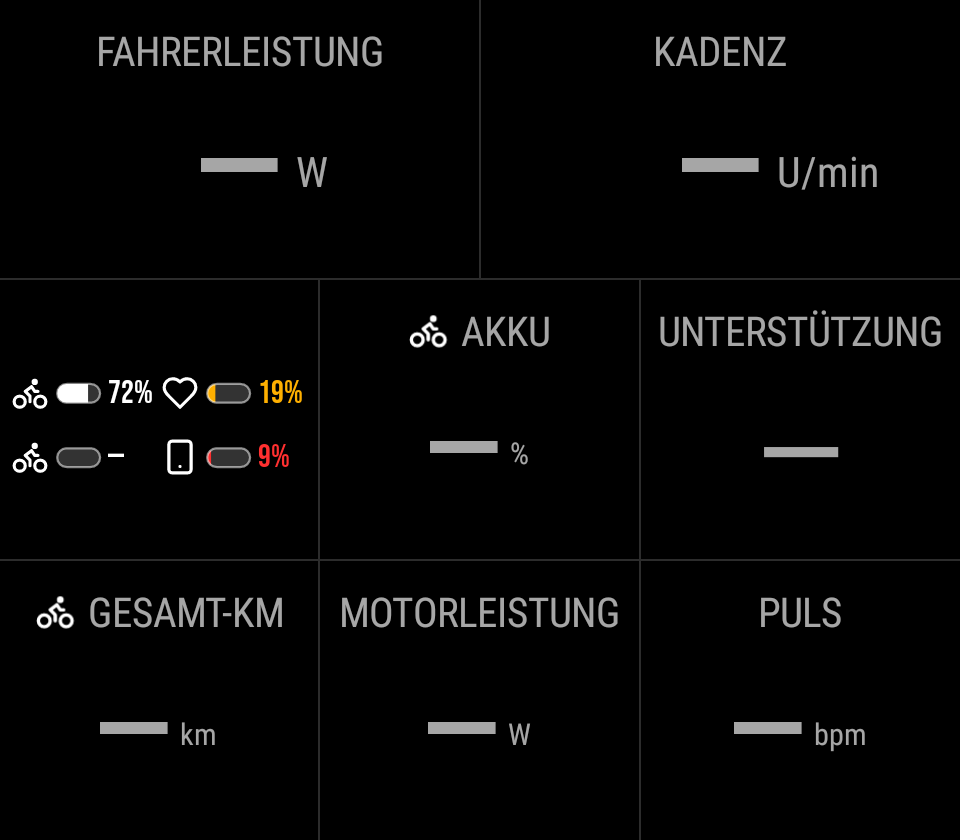
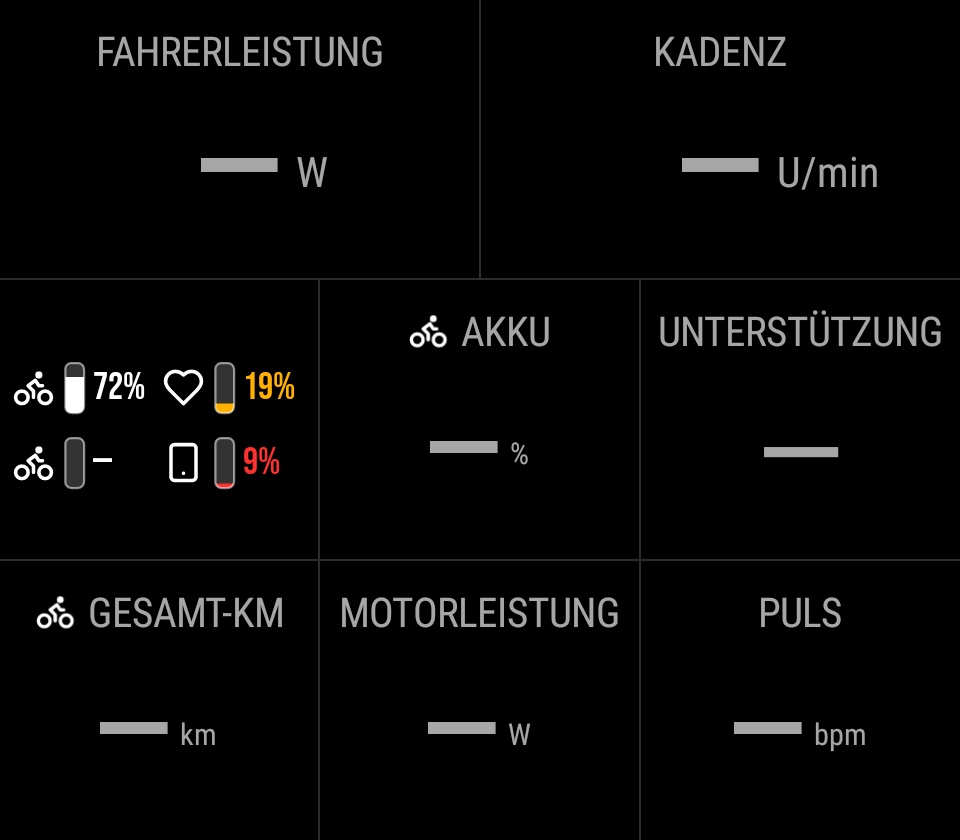
Refine battery selection and vertical display; pin notification sections

Changed region(s): [[0.0, 0.4333, 0.3125, 0.5881]]

diff --git a/app/src/main/java/de/bcycle/app/FieldPickerView.kt b/app/src/main/java/de/bcycle/app/FieldPickerView.kt
@@ -18,7 +18,7 @@ internal class FieldPickerView(context: Context, data: LiveData, gps: GpsValues,
     visualization: ZoneGlowPicker? = null,
     training: TrainingSnapshot = TrainingSnapshot(),
     dataVisible: Boolean = true,
-    batteryChoose: ((DashboardField)->Unit)? = null,
+    batteryChoose: ((DashboardField?)->Unit)? = null,
     choose: (DashboardField?) -> Unit) : LinearLayout(context) {
     private fun dp(n: Int) = BicycleDesign.dp(context, n)
     private lateinit var fieldList: ScrollView
@@ -72,10 +72,12 @@ internal class FieldPickerView(context: Context, data: LiveData, gps: GpsValues,
         if(visualization!=null) panels.addView(visualization)
         var shown = -1
         var batterySelection=selected?.batterySources ?: listOf(BatterySource.PHONE)
-        var combined=selected?.batterySources!=null
+        var combined=dataVisible && selected?.batterySources!=null
+        val percentChoices=mutableListOf<RadioButton>()
+        fun updatePercentChoices() { percentChoices.forEach { it.isEnabled=!combined;it.alpha=if(combined) .4f else 1f } }
         fun populate(position: Int) {
             if (shown == position) return
-            shown = position; rows.removeAllViews(); list.scrollTo(0, 0)
+            shown = position; rows.removeAllViews(); percentChoices.clear(); list.scrollTo(0, 0)
             for (section in groups.getValue(sources[position])) {
                 rows.addView(TextView(context).apply {
                     text = if(section.source=="Leistung") context.getString(R.string.training_category) else DashboardTextResources.section(context,section.title); isAccessibilityHeading=true; textSize = BicycleDesign.bodySp; BicycleDialogStyle.control(this, themes)
@@ -84,49 +86,70 @@ internal class FieldPickerView(context: Context, data: LiveData, gps: GpsValues,
                 for (field in section.fields) {
                     val value = field.value(data, gps, bikeDistanceM, pulse, training)
                     val title = if (field.id == "RIDER_POWER") context.getString(R.string.ui_rider_power_own) else field.title(context,data, gps)
-                    val radio=RadioButton(context).apply {
-                        tag = field.id; text = if (value.unit.isNotEmpty()) context.getString(R.string.ui_field_with_unit, title, value.unit) else title
-                        BicycleDialogStyle.control(this, themes); minHeight = dp(BicycleDesign.touchSize)
-                        isChecked = pickerDataVisible && (if(combined) field.id==BatteryFields.COMBINED else selected==field)
-                        contentDescription = if (field.showSource) context.getString(R.string.ui_source_field_description, DashboardTextResources.source(context,field.source(data)), text) else text
-                        setOnClickListener {
-                            if(field.id==BatteryFields.COMBINED) {
-                                combined=true;pickerDataVisible=true;emptyChoice.isChecked=false
-                                for(i in 0 until rows.childCount) (rows.getChildAt(i) as? RadioButton)?.isChecked=false
-                                isChecked=true
-                                (batteryChoose ?: choose).invoke(BatteryFields.field(batterySelection))
-                            } else choose(field)
-                        }
-                    }
-                    rows.addView(radio)
                     if(field.id==BatteryFields.COMBINED) {
+                        var updating=false
+                        val checks=mutableMapOf<BatterySource,android.widget.CheckBox>()
+                        val toggle=android.widget.Switch(context).apply {
+                            tag=field.id;text=title;isChecked=combined
+                            BicycleDialogStyle.control(this,themes)
+                        }
+                        fun updateChecks() {
+                            updating=true
+                            toggle.isChecked=combined
+                            checks.forEach { (source,check) ->
+                                check.isChecked=source in batterySelection
+                                check.isEnabled=source in batterySelection || batterySelection.size<4
+                            }
+                            updating=false
+                            updatePercentChoices()
+                        }
+                        fun saveCombination() {
+                            pickerDataVisible=combined;emptyChoice.isChecked=!combined
+                            for(i in 0 until rows.childCount) (rows.getChildAt(i) as? RadioButton)?.isChecked=false
+                            updateChecks()
+                            (batteryChoose ?: choose).invoke(if(combined) BatteryFields.field(batterySelection) else null)
+                        }
+                        toggle.setOnCheckedChangeListener { _,checked ->
+                            if(!updating) {
+                                combined=checked
+                                if(checked && batterySelection.isEmpty()) batterySelection=listOf(BatterySource.PHONE)
+                                saveCombination()
+                            }
+                        }
+                        rows.addView(toggle)
                         rows.addView(BicycleComponents.text(context,themes,context.getString(R.string.battery_selection)))
                         rows.addView(BicycleComponents.text(context,themes,context.getString(R.string.battery_selection_help)))
-                        val checks=mutableMapOf<BatterySource,android.widget.CheckBox>()
-                        fun updateChecks() { checks.forEach { (source,check) ->
-                            check.isEnabled=if(source in batterySelection) batterySelection.size>1 else batterySelection.size<4
-                        } }
-                        (BatteryFields.choices(data.indoor)+batterySelection).distinct().forEach { source ->
+                        (BatteryFields.choices()+batterySelection).distinct().forEach { source ->
                             val check=android.widget.CheckBox(context).apply {
                                 tag="battery_select_${source.name}";text=context.getString(source.label);isChecked=source in batterySelection
                                 BicycleDialogStyle.control(this,themes);BicycleDialogStyle.actionIcon(this,themes,BatteryFields.icon(source))
                                 setOnCheckedChangeListener { _,checked ->
-                                    val next=if(checked) (batterySelection+source).distinct() else batterySelection-source
-                                    if(next.size !in 1..4) { isChecked=!checked;return@setOnCheckedChangeListener }
-                                    batterySelection=next
-                                    combined=true;pickerDataVisible=true;emptyChoice.isChecked=false
-                                    for(i in 0 until rows.childCount) (rows.getChildAt(i) as? RadioButton)?.isChecked=false
-                                    radio.isChecked=true;updateChecks()
-                                    (batteryChoose ?: choose).invoke(BatteryFields.field(batterySelection))
+                                    if(!updating) {
+                                        batterySelection=if(checked) (batterySelection+source).distinct() else batterySelection-source
+                                        combined=batterySelection.isNotEmpty()
+                                        saveCombination()
+                                    }
                                 }
                             }
                             checks[source]=check;rows.addView(check)
                         }
                         updateChecks()
+                    } else {
+                        val radio=RadioButton(context).apply {
+                            tag=field.id
+                            text=if(value.unit.isNotEmpty()) context.getString(R.string.ui_field_with_unit,title,value.unit) else title
+                            BicycleDialogStyle.control(this,themes);minHeight=dp(BicycleDesign.touchSize)
+                            isChecked=pickerDataVisible && !combined && selected==field
+                            contentDescription=if(field.showSource) context.getString(R.string.ui_source_field_description,DashboardTextResources.source(context,field.source(data)),text) else text
+                            setOnClickListener { choose(field) }
+                        }
+                        // Keep all percent entries aligned with the other native selection circles.
+                        rows.addView(radio,LayoutParams(-1,-2))
+                        if(BatteryFields.single(field.id)!=null) percentChoices.add(radio)
                     }
                 }
             }
-
+            updatePercentChoices()
         }
         selector.onItemSelectedListener = object : AdapterView.OnItemSelectedListener {
             override fun onItemSelected(parent: AdapterView<*>?, view: View?, position: Int, id: Long) = populate(position)

diff --git a/app/src/test/java/de/bcycle/app/BatteryFieldsTest.kt b/app/src/test/java/de/bcycle/app/BatteryFieldsTest.kt
@@ -52,9 +52,9 @@ class BatteryFieldsTest {
         send(90,0);assertNull(battery.level)
         battery.stop();send(90);assertNull(battery.level)
     }
-    @Test fun pickerSavesMultipleSourcesWithoutClosingAndEnforcesFourAndAtLeastOne() {
+    @Test fun pickerKeepsPhoneSelectableAndDisablesPercentFieldsOnlyWhileCombinationIsActive() {
         val initial=listOf(BatterySource.EBIKE,BatterySource.HEART,BatterySource.TRAINER,BatterySource.POWER)
-        var chosen=BatteryFields.field(initial)
+        var chosen:DashboardField?=BatteryFields.field(initial)
         var closed=false
         val picker=FieldPickerView(app,LiveData(),GpsValues(),null,PulseValues(),chosen,false,
             batteryChoose={ chosen=it },choose={ closed=true })
@@ -64,11 +64,44 @@ class BatteryFieldsTest {
         assertFalse(phone.isEnabled)
         picker.findViewWithTag<CheckBox>("battery_select_POWER").performClick()
         assertTrue(phone.isEnabled);phone.performClick()
-        assertEquals(4,chosen.batterySources!!.size);assertTrue(BatterySource.PHONE in chosen.batterySources!!)
+        assertEquals(4,chosen!!.batterySources!!.size);assertTrue(BatterySource.PHONE in chosen!!.batterySources!!)
         assertFalse(closed)
         for(source in listOf(BatterySource.EBIKE,BatterySource.HEART,BatterySource.TRAINER)) picker.findViewWithTag<CheckBox>("battery_select_${source.name}").performClick()
-        assertEquals(listOf(BatterySource.PHONE),chosen.batterySources)
-        assertFalse(phone.isEnabled)
+        assertEquals(listOf(BatterySource.PHONE),chosen!!.batterySources)
+        assertTrue(phone.isEnabled)
+        assertFalse(picker.findViewWithTag<android.widget.RadioButton>("PHONE_BATTERY").isEnabled)
+        phone.performClick()
+        assertNull(chosen)
+        assertTrue(phone.isEnabled)
+        assertTrue(picker.findViewWithTag<android.widget.RadioButton>("PHONE_BATTERY").isEnabled)
+        phone.performClick()
+        assertEquals(listOf(BatterySource.PHONE),chosen!!.batterySources)
+        picker.findViewWithTag<android.widget.Switch>(BatteryFields.COMBINED).performClick()
+        assertNull(chosen)
+        spinner.setSelection((0 until spinner.adapter.count).first { spinner.adapter.getItem(it)=="Smartphone" })
+        shadowOf(Looper.getMainLooper()).idle()
+        assertTrue(picker.findViewWithTag<android.widget.RadioButton>("PHONE_BATTERY").isEnabled)
+        assertFalse(closed)
+    }
+    @Test fun percentChoicesStayDisabledAcrossCategoriesUntilCombinationIsSwitchedOff() {
+        val field=BatteryFields.field(listOf(BatterySource.PHONE))
+        val picker=FieldPickerView(app,LiveData(),GpsValues(),null,PulseValues(),field,false,batteryChoose={},choose={})
+        val spinner=picker.findViewWithTag<Spinner>("field_source")
+        fun source(name:String) {
+            spinner.setSelection((0 until spinner.adapter.count).first { spinner.adapter.getItem(it)==name })
+            shadowOf(Looper.getMainLooper()).idle()
+        }
+        for((category,id) in listOf("Akku" to "PHONE_BATTERY","Smartphone" to "PHONE_BATTERY","Pulsmesser" to "HEART_BATTERY","E-Bike" to "BATTERY")) {
+            source(category)
+            assertFalse(picker.findViewWithTag<android.widget.RadioButton>(id).isEnabled)
+        }
+        source("Akku")
+        picker.findViewWithTag<android.widget.Switch>(BatteryFields.COMBINED).performClick()
+        assertTrue(picker.findViewWithTag<android.widget.RadioButton>("PHONE_BATTERY").isEnabled)
+        source("Smartphone")
+        assertTrue(picker.findViewWithTag<android.widget.RadioButton>("PHONE_BATTERY").isEnabled)
+        val reopened=FieldPickerView(app,LiveData(),GpsValues(),null,PulseValues(),field,false,dataVisible=false,choose={})
+        assertTrue(reopened.findViewWithTag<android.widget.RadioButton>("PHONE_BATTERY").isEnabled)
     }
     @Test fun threeColumnDashboardAndMapRenderFourCompactRowsIncludingMissingValuesAndStatusMarks() {
         val snapshot=BatterySnapshot(mapOf(BatterySource.EBIKE to 72,BatterySource.HEART to 19,BatterySource.PHONE to 9))

diff --git a/app/src/main/java/de/bcycle/app/BatteryGridView.kt b/app/src/main/java/de/bcycle/app/BatteryGridView.kt
@@ -17,31 +17,31 @@ internal class BatteryGridRenderer(private val context:Context, private val fore
         val columns=if(sources.size==1) 1 else 2
         val rows=(sources.size+columns-1)/columns
         val cellWidth=bounds.width()/columns
-        val scale=minOf(cellWidth/(56*density),bounds.height()/(rows*24*density),1.5f)
+        val scale=minOf(cellWidth/(48*density),bounds.height()/(rows*24*density),1.9f)
         if(scale<=0) return
         val u=density*scale
         val rowHeight=24*u
         val top=bounds.centerY()-rows*rowHeight/2
         sources.forEachIndexed { index,source ->
-            val left=bounds.left+(index%columns)*cellWidth+(cellWidth-54*u)/2
+            val left=bounds.left+(index%columns)*cellWidth+(cellWidth-46*u)/2
             val center=top+(index/columns+.5f)*rowHeight
             val level=snapshot.level(source)
             val color=when(BatteryFields.warning(level)) { 2->if(foreground==Color.BLACK) 0xffa51c1c.toInt() else 0xffff3030.toInt();1->if(foreground==Color.BLACK) 0xff8c5700.toInt() else 0xffffb000.toInt();else->foreground }
             icons.getOrPut(source) { BicycleIcons.drawable(context,BatteryFields.icon(source),foreground) }.apply { setBounds(left.toInt(),(center-7*u).toInt(),(left+14*u).toInt(),(center+7*u).toInt());draw(canvas) }
-            val bar=RectF(left+17*u,center-3.5f*u,left+33*u,center+3.5f*u)
+            val bar=RectF(left+17*u,center-8*u,left+23*u,center+8*u)
             paint.style=Paint.Style.FILL;paint.color=(foreground and 0x00ffffff) or 0x33000000
-            canvas.drawRoundRect(bar,3.5f*u,3.5f*u,paint)
+            canvas.drawRoundRect(bar,2*u,2*u,paint)
             if(level!=null && level>0) {
                 paint.color=color
-                canvas.save();canvas.clipRoundRectCompat(bar,3.5f*u)
-                canvas.drawRect(bar.left,bar.top,bar.left+bar.width()*level/100f,bar.bottom,paint);canvas.restore()
+                canvas.save();canvas.clipRoundRectCompat(bar,2*u)
+                canvas.drawRect(bar.left,bar.bottom-bar.height()*level/100f,bar.right,bar.bottom,paint);canvas.restore()
             }
             paint.style=Paint.Style.STROKE;paint.strokeWidth=BicycleDesign.dividerDp*density
             paint.color=(foreground and 0x00ffffff) or 0x88000000.toInt()
-            canvas.drawRoundRect(bar,3.5f*u,3.5f*u,paint)
+            canvas.drawRoundRect(bar,2*u,2*u,paint)
             paint.style=Paint.Style.FILL;paint.typeface=font;paint.textSize=12*u
             paint.color=color;paint.textAlign=Paint.Align.LEFT
-            canvas.drawText(level?.let { context.getString(R.string.battery_percent_compact,it) } ?: context.getString(R.string.battery_missing),left+36*u,center-(paint.ascent()+paint.descent())/2,paint)
+            canvas.drawText(level?.let { context.getString(R.string.battery_percent_compact,it) } ?: context.getString(R.string.battery_missing),left+26*u,center-(paint.ascent()+paint.descent())/2,paint)
         }
     }
     private fun Canvas.clipRoundRectCompat(rect:RectF,radius:Float) {

diff --git a/app/src/main/java/de/bcycle/app/DashboardLayout.kt b/app/src/main/java/de/bcycle/app/DashboardLayout.kt
@@ -192,7 +192,7 @@ data class DashboardField(val id: String) {
         val baseOptions = LiveMetric.entries.map { DashboardField(it.name) } +
             listOf("PHONE_TIME","BATTERIES","PHONE_BATTERY","TRAINER_BATTERY","BIKE_DISTANCE", "CURRENT_RANGE", "RANGES", "HEART_RATE", "HEART_AVERAGE", "HEART_MAXIMUM", "HEART_BATTERY").map { DashboardField(it) } +
             GpsMetric.entries.map { DashboardField(it.name) } + WeatherMetric.entries.map { DashboardField(it.name) } + TrainingMetric.entries.map { DashboardField(it.name) }
-        fun options(data: LiveData) = baseOptions.filter { it.id!="TRAINER_BATTERY" || data.indoor } + List(data.rangesKm?.size ?: 0) { DashboardField("RANGE_$it") }
+        fun options(data: LiveData) = baseOptions + List(data.rangesKm?.size ?: 0) { DashboardField("RANGE_$it") }
         fun groups(data: LiveData, selected: DashboardField? = null, includeTraining: Boolean = false): List<FieldGroup> {
             fun fields(vararg ids: String) = ids.map { DashboardField(it) }
             val ranges = options(data).filter { it.id.startsWith("RANGE_") }.toMutableList().apply {
@@ -214,7 +214,7 @@ data class DashboardField(val id: String) {
                 val allowed=group.fields.filter { it.id in IndoorFields.allowed }
                 if(allowed.isEmpty()) null else group.copy(source=if(group.source=="Pulsmesser") group.source else "Indoor-Bike",fields=allowed)
             }.groupBy { it.source to it.title }.values.map { same -> same.first().copy(fields=same.flatMap { it.fields }.distinct()) } } +
-                listOf(FieldGroup("Akku","Akku",fields("BATTERIES",if(data.indoor) "TRAINER_BATTERY" else "BATTERY","HEART_BATTERY","PHONE_BATTERY")),
+                listOf(FieldGroup("Akku","Akku",fields("BATTERIES","BATTERY","HEART_BATTERY","TRAINER_BATTERY","PHONE_BATTERY")),
                     FieldGroup("Smartphone","Smartphone",fields("PHONE_TIME","PHONE_BATTERY"))) + if(includeTraining) listOf(FieldGroup("Leistung", "Leistung", TrainingMetric.entries.map { DashboardField(it.name) })) else emptyList()
         }
         fun fromId(id: String): DashboardField? = id.takeIf { BatteryFields.sources(it)!=null }?.let(::DashboardField) ?: baseOptions.find { it.id == id } ?: id.takeIf {

diff --git a/app/src/test/java/de/bcycle/app/MessageNotificationUiTest.kt b/app/src/test/java/de/bcycle/app/MessageNotificationUiTest.kt
@@ -53,6 +53,20 @@ class MessageNotificationUiTest {
         val intent=shadowOf(app).nextStartedActivity
         assertTrue(intent.action in setOf(android.provider.Settings.ACTION_NOTIFICATION_LISTENER_DETAIL_SETTINGS,android.provider.Settings.ACTION_NOTIFICATION_LISTENER_SETTINGS))
     }
+    @Test fun notificationSectionsPinToViewportAndPushOffAtNextSection() {
+        val app=RuntimeEnvironment.getApplication()
+        val content=MessageNotificationSettingsView(android.view.ContextThemeWrapper(app,R.style.SettingsDialogTheme),ThemeManager(app.getSharedPreferences("bike",0)))
+        val scroll=BicycleStickyScrollView(content.context).apply { addView(content) }
+        scroll.measure(View.MeasureSpec.makeMeasureSpec(1080,View.MeasureSpec.EXACTLY),View.MeasureSpec.makeMeasureSpec(600,View.MeasureSpec.EXACTLY))
+        scroll.layout(0,0,1080,600)
+        val headers=views(content).filterIsInstance<BicycleSectionHeader>()
+        assertEquals(3,headers.size)
+        scroll.scrollTo(0,headers.first().top+20)
+        assertTrue(headers.first().translationY>0f)
+        assertEquals(scroll.scrollY.toFloat(),headers.first().top+headers.first().translationY,1f)
+        scroll.scrollTo(0,headers[1].top)
+        assertEquals(0f,headers.first().translationY,0f)
+    }
     @Test fun realDashboardCardHonorsAllThreeAnchorsAndForegroundAndDialogBoundaries() {
         val controller=Robolectric.buildActivity(MainActivity::class.java).setup()
         try {
@@ -88,6 +102,7 @@ class MessageNotificationUiTest {
             val menu=ShadowAlertDialog.getLatestAlertDialog()
             views(menu.window!!.decorView).single { it.tag=="settings_NOTIFICATIONS" }.performClick()
             val settingsDialog=ShadowAlertDialog.getLatestAlertDialog()
+            assertEquals(1,views(settingsDialog.window!!.decorView).filterIsInstance<BicycleStickyScrollView>().size)
             settings.durationSeconds=37
             controller.pause().stop().start().resume().visible()
             assertTrue(settingsDialog.isShowing)

diff --git a/app/src/main/java/de/bcycle/app/BatteryFields.kt b/app/src/main/java/de/bcycle/app/BatteryFields.kt
@@ -30,7 +30,7 @@ internal object BatteryFields {
         require(sources.size in 1..4 && sources.distinct().size==sources.size)
         return DashboardField("$COMBINED:"+sources.sortedBy { it.ordinal }.joinToString(",") { it.name })
     }
-    fun choices(indoor: Boolean)=listOf(if(indoor) BatterySource.TRAINER else BatterySource.EBIKE,BatterySource.HEART,BatterySource.PHONE)
+    fun choices()=listOf(BatterySource.EBIKE,BatterySource.HEART,BatterySource.TRAINER,BatterySource.PHONE)
     fun icon(source: BatterySource)=when(source) {
         BatterySource.EBIKE,BatterySource.TRAINER->SensorIcons.forSensor(if(source==BatterySource.EBIKE) BikeSensor.EBIKE else BikeSensor.TRAINER)
         BatterySource.HEART->SensorIcons.forSensor(BikeSensor.HEART)

diff --git a/app/src/main/java/de/bcycle/app/MainActivity.kt b/app/src/main/java/de/bcycle/app/MainActivity.kt
@@ -318,7 +318,7 @@ class MainActivity : Activity() {
         val content=MessageNotificationSettingsView(settingsContext,runtime.themes)
         notificationSettings=content
         val screen=dialog().setTitle(getString(R.string.notifications_title))
-            .setView(ScrollView(settingsContext).apply { addView(content) }).show()
+            .setView(BicycleStickyScrollView(settingsContext).apply { addView(content) }).show()
         dialogs.onDismiss(screen) { if(notificationSettings===content) notificationSettings=null }
     }
     private fun showMenu(advanced: Boolean = false) {

diff --git a/AGENTS.md b/AGENTS.md
@@ -127,6 +127,6 @@ Indoor-Messwertkorrektur: IndoorCorrection im Bikeprofil speichert Leistungs- un
 
 Benachrichtigungen: Hauptmenü nach Design & UI, eigener Fullscreen-Screen. Android NotificationListenerService/BIND_NOTIFICATION_LISTENER_SERVICE; nur ausdrücklich aktivierte und ausgewählte Apps, keine Altbenachrichtigungen nachladen. Appauswahl plus Messenger-Filter, Position Unten/Mitte/Oben als Dashboard-artige Vorschaukacheln, Dauer 5–180 s/Schritt 1/Default 60. Sonderfenster in der Dashboard-Activity: SECONDARY, 3 dp ACCENT-Rahmen, dezente Rundung, farbiges Original-App-Icon vor Absender, scrollbarer Text. Unten maximal Kartenoberkante, Mitte/Oben max. 320 dp und verfügbare Höhe, Systemleisten aussparen. Kein Systemoverlay oder zusätzlicher Ton; X/Timeout/Folgemeldungen. Inhalte nur RAM, nach Appwechsel/Deaktivierung verwerfen, niemals in FIT/Diagnosen/Prefs. Details: docs/notifications-preparation.md.
 
-Akku-/Smartphone-Anzeige: BatteryFields/BatterySnapshot und einen gemeinsamen kompakten Canvas-Renderer verwenden. Kategorie Akku sammelt Füllstände zusätzlich zu bestehenden Einzelquellen, Smartphone bietet lokale Uhrzeit HH:mm und Smartphone-Akku. Kombifelder speichern ein bis vier eindeutige Quellen im stabilen DashboardField-ID-Codec; pro Feld, Seite, Preset, Karte und Backup erhalten. 2×2, nur Sensoricon/Balken/Prozent, kein Titel. Fehlende/stale Quellen behalten ihren Platz mit Strich, echte Null bleibt Null. Unter 20 orange/gelb, unter 10 rot, Grenzwerte genau beachten; Icons neutral. Dashboard hell, Karte dunkel. Kartenzeile nur bei drei/vier Quellen 76 statt 62 dp, Record/Licht und Zoom-Abstände erhalten. PhoneBattery nur über Systembroadcast abonnieren, kein Polling; keine neuen FIT-Felder oder BLE-Messwertzahlen. Details: docs/battery-dashboard.md.
+Akku-/Smartphone-Anzeige: BatteryFields/BatterySnapshot und einen gemeinsamen kompakten Canvas-Renderer verwenden. Kategorie Akku sammelt Füllstände zusätzlich zu bestehenden Einzelquellen, Smartphone bietet lokale Uhrzeit HH:mm und Smartphone-Akku. Kombifelder speichern ein bis vier eindeutige Quellen im stabilen DashboardField-ID-Codec; pro Feld, Seite, Preset, Karte und Backup erhalten. 2×2, nur Sensoricon/vertikaler Balken/Prozent, kein Titel. Kombianzeige über Schalter; separate Prozentfelder bei aktiver Kombination gedimmt und nicht wählbar, in allen Kategorien. Letzte Akkuquelle bleibt abwählbar, leere Auswahl schaltet Kombination aus. Alle unterstützten Akkuquellen profilunabhängig anbieten, fehlende Daten weiter als Strich. Fehlende/stale Quellen behalten ihren Platz mit Strich, echte Null bleibt Null. Unter 20 orange/gelb, unter 10 rot, Grenzwerte genau beachten; Icons neutral. Dashboard hell, Karte dunkel. Kartenzeile nur bei drei/vier Quellen 76 statt 62 dp, Record/Licht und Zoom-Abstände erhalten. PhoneBattery nur über Systembroadcast abonnieren, kein Polling; keine neuen FIT-Felder oder BLE-Messwertzahlen. Details: docs/battery-dashboard.md.
 
 Dashboard 10 FULL_DATA: 1/1/1/2, fünf Felder, keine Karte; ONE/ONE/ONE/TWO als bestehende Stile und gesamte verfügbare Höhe. Untere Bedienleiste sichtbar, Editor-Beenden separat erreichbar, Kartenlebenszyklus pausieren, GPS/FIT unabhängig. Vorschau/Persistenz/Backup wie bisher. Wetterfelder auch bei Indoor auswählbar, ohne GPS weiter fehlend und kein GPS-Start.

diff --git a/docs/battery-dashboard.md b/docs/battery-dashboard.md
@@ -18,13 +18,15 @@ auffindbar; die Akku-Kategorie sammelt Füllstände zusätzlich als gezielte Ali
 Smartphone bietet **Uhrzeit (HH:mm, lokale Gerätezeit)** und **Akkustand**. Die Uhrzeit
 ist eine Live-Anzeige, kein Fahrtzähler, und läuft unabhängig von START/STOPP.
 
-**Kombinierte Akkuanzeige:** ein bis vier Quellen pro Datenfeld auswählen. Auswahländerungen
-werden sofort übernommen, der Dialog bleibt für weitere Checkboxen offen. Der letzte
-gewählte Akku lässt sich nicht einzeln abwählen; stattdessen „Keine Daten anzeigen“
-oder ein anderes Hauptfeld wählen. Vier Auswahlplätze sind eine feste Obergrenze,
-keine zusätzlichen Konfigurationsregler. Vorhandene Auswahlen anderer Bike-Typen
-bleiben im Picker zum Entfernen erreichbar, auch wenn diese Quellen aktuell keine
-Daten liefern. Neue Auswahlen richten sich nach dem aktuellen Profiltyp.
+**Kombinierte Akkuanzeige:** ein bis vier Quellen pro Datenfeld auswählen. Ein Schalter
+aktiviert/deaktiviert die Kombination. Auswahländerungen werden sofort übernommen,
+der Dialog bleibt offen. Der letzte gewählte Akku bleibt bedienbar; Abwahl aller Quellen
+schaltet die Kombination aus und zeigt keine Daten. Der Schalter kann sie erneut aktivieren
+(leere Auswahl beginnt mit Smartphone). Einzelne Prozentfelder sind nur bei aktiver
+Kombination deaktiviert/gedimmt, auch in anderen Kategorien. Nach Ausschalten wieder
+wählbar. Alle bereits unterstützten Akkus sind unabhängig vom Profil zur Auswahl sichtbar;
+fehlende Quellen bleiben ohne erfundene Werte. Maximal vier Quellen, nur weitere noch
+nicht ausgewählte Quellen bei Erreichen des Limits sperren.
 
 Persistenz über stabile Feld-IDs `BATTERIES:EBIKE,HEART,PHONE` usw.; keine zusätzlichen
 per-Layout-Prefs. Neue Auswahlen in fester Quellenreihenfolge E-Bike, Puls, Trainer,
@@ -34,10 +36,12 @@ und bestehendes Dashboard-Backup verwenden denselben Codec und behalten die Ausw
 
 ## Darstellung
 
-Einträge als **Icon · Balken · Prozent**, ohne zusätzliche Überschrift. Ab zwei Einträgen
+Einträge als **Icon · vertikaler Balken · Prozent**, ohne zusätzliche Überschrift. Ab zwei Einträgen
 zwei Spalten, ab drei zwei Reihen. Gemeinsamer Canvas-Renderer, feste Sensoridentität
 über SensorIcons/BicycleIcons, bestehende schmale Zahlenschrift. Bis vier Einträge
-passen auch in schmale Dreierkacheln. Quellen ohne gültigen, aktuell verfügbaren Wert
+passen auch in schmale Dreierkacheln. Der Balken füllt sich von unten nach oben.
+Durch die schmaleren Balken größere Darstellung, je nach Platz bis rund 27 % gegenüber
+der ersten Version; die verfügbare Breite/Höhe begrenzt die Skalierung. Quellen ohne gültigen, aktuell verfügbaren Wert
 bleiben mit **„—“** im Raster; echte 0 % bleiben sichtbar. Kein Zusammenschieben der
 Slots, kein Ersetzen fehlender Werte durch 0 oder historische Daten.
 

diff --git a/docs/notifications-preparation.md b/docs/notifications-preparation.md
@@ -80,3 +80,9 @@ Appwechsel. Bestehende Menüreihenfolge-Tests um den neuen Eintrag erweitert.
 
 Echter Android-Benachrichtigungszugriff und Zustellung aus WhatsApp/Element auf dem
 Nutzergerät müssen mit der Test-APK geprüft werden; Frameworktests ersetzen das nicht.
+
+## Einheitliche Abschnittsnavigation
+
+Position, Anzeigedauer und Apps verwenden BicycleForm.section im zentralen
+BicycleStickyScrollView. Überschriften docken beim Scrollen oben an, werden vom
+folgenden Abschnitt abgelöst und übernehmen die gemeinsamen Abstände/Theme-Regeln.
